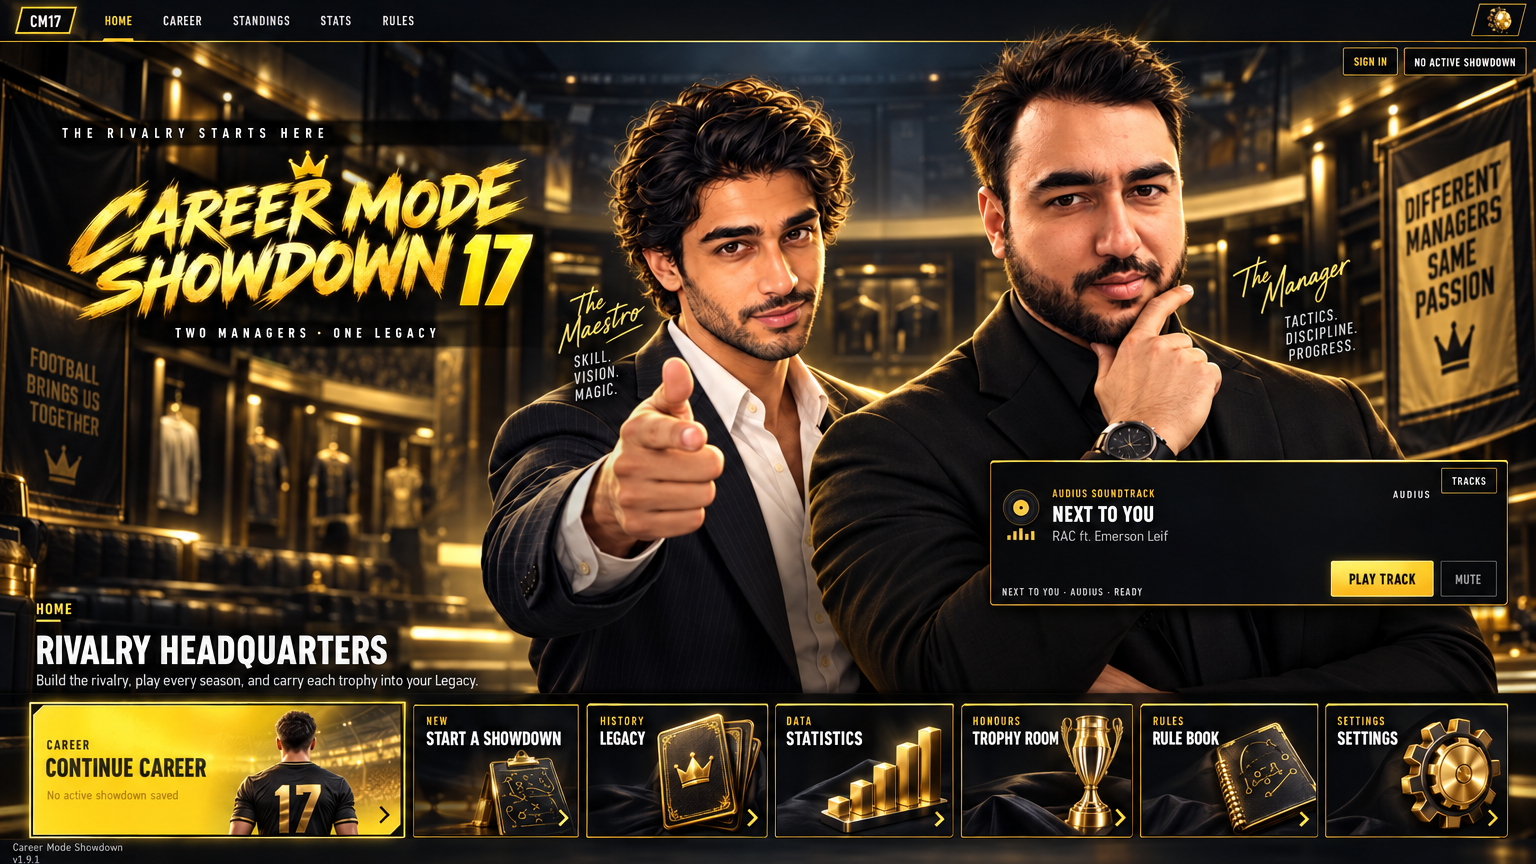
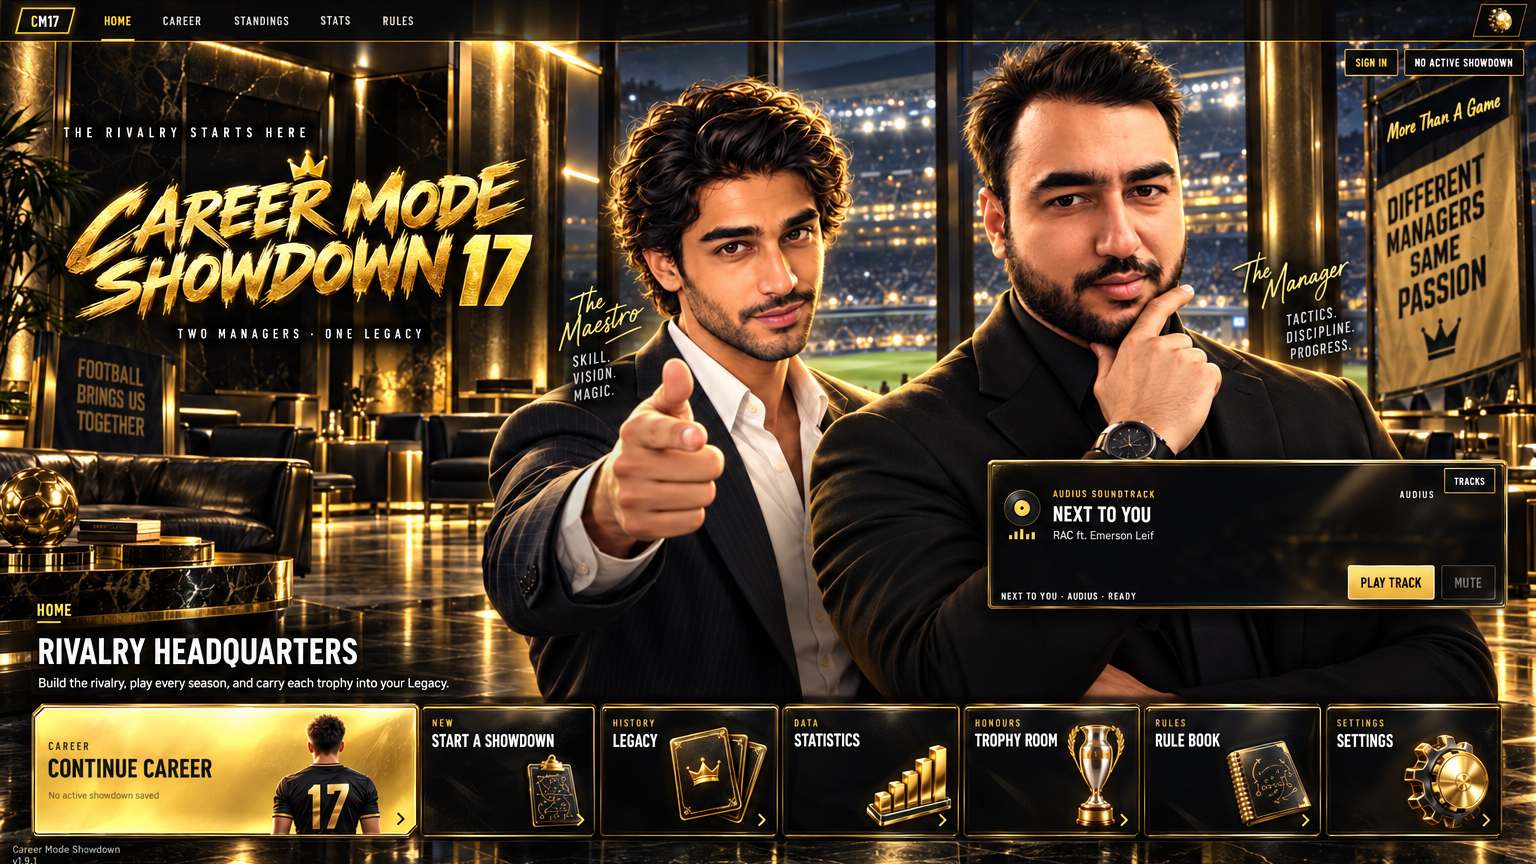
Mockups: re-approve NEXT_HOME with the premium redo
Claude-Session: https://claude.ai/code/session_013pn5j1NjipzmcDNVpF7Fd3

diff --git a/project-documents/factory/mockups/README.md b/project-documents/factory/mockups/README.md
@@ -29,7 +29,7 @@ Nik's mockups and goal images. They show the look to reach. Some contain real cl
 | PHONE_TROPHY_ROOM.png | Trophy Room (ALL tab) | Sat 10 Oct 11:14 p.m. Eastern | Ticket 1588 10 of 12, prompt v2. Faces and every word match live. New: all five live tabs in a framed two-row tab bar (ALL lit), all four live trophies in a 2 x 2 grid of identical glass display niches with marble plinths and one spotlight each, one condensed font. The live phone carousel cuts off the 5th tab and two cards; this shows them all. Each tab shows its one trophy large: see PHONE_TROPHY_ROOM_SINGLE (ticket 10B). sha256 bdebfcb147cc3cfb… |
 | PHONE_TROPHY_ROOM_SINGLE.png | Trophy Room (one tab picked) | Sat 10 Oct 11:22 p.m. Eastern | Ticket 1588 10B, first try. Same screen with CHAMPIONS LEAGUE lit: the 2 x 2 grid becomes one big display niche with the one trophy large on its plinth and a bigger name-and-counts band. Every other tab uses this layout with its own trophy and counts. Needs the high-res trophy art from ticket 10C (live art is only 341 x 512). sha256 0cd151a596a2b084… |
 | PHONE_FINAL_WINNER.png | Final Winner | Sat 10 Oct 11:23 p.m. Eastern | Ticket 1588 11 of 12, try 1 plus a buttons-only fix. Faces, trophy, scores and every word match live. New: richer stadium night, framed SUMMARY / HONOURS panel, and the two live buttons REVIEW MY SEASON RESULT (dark, gold edge) and BACK TO SHOWDOWN HOME (gold, main) fully on screen with a margin. In live they sit 6-7px from the bottom edge at 393x660. sha256 67de1d61ed589677… |
-| NEXT_HOME.png | Home (desktop, next level) | Sun 11 Oct 1:50 a.m. Eastern | Ticket 1610 1 of 14, try 1, cropped to the 16:9 screen (1536x864). Both managers, every title, tab, label and the soundtrack card match live r69. New: calmer lighting, a trophy-hall background with plain shirts (no crests), cleaner panels, and big tile art filling the right side of each tile. Dropped: the small "More Than A Game" script tag above the right banner (decoration only). sha256 c8a44225c70ab08f… |
+| NEXT_HOME.png | Home (desktop, premium) | Sun 11 Oct 6:55 p.m. Eastern | Premium redo (ticket 1610 1 of 14, rewritten prompt), replaces the earlier approved Home, cropped to 16:9 (1536x864). Same layout and words as live: top bar with CM17 and the five tabs, SIGN IN and NO ACTIVE SHOWDOWN at the top right (SIGN IN required, Nik 11 Oct), THE RIVALRY STARTS HERE, CAREER MODE SHOWDOWN 17 gold brush title, TWO MANAGERS · ONE LEGACY, Daniel LEFT and Nik RIGHT with their name tags, Audius soundtrack card, RIVALRY HEADQUARTERS line, CONTINUE CAREER gold tile and the six tiles with large art. New: black-marble stadium lounge with brushed-gold columns and glass windows on the floodlit pitch, gold-bevel tiles. sha256 d3a8f8ae5f78ace3… |
 | NEXT_RULE_BOOK.png | Rule Book (desktop, next level) | Sun 11 Oct 3:58 a.m. Eastern | Ticket 1610 13 of 14, first try with the stricter prompt, cropped to the screen (1536x880). Top bar, title, all six cards and every line of 01-05 plus the scoring table match live. Claude fix: GPT merged and garbled the four 06 CONNECTION & RECOVERY lines, so Claude repainted that card body with the four live lines in Barlow (no other pixels touched). Wiring notes: the subtitle shows a comma after "Permanent clubs" (live has a full stop), and the right banner reads SAME AMBITION; use the live banner art (SAME PASSION). New: calmer gold stadium, framed cards, bigger readable rule lines. sha256 bc23b9e610d44f75… |
 | NEXT_CONNECT_PLAYERS.png | Connect Players (desktop, premium) | Sun 11 Oct 6:54 p.m. Eastern | Premium redo (ticket 1610 2 of 14, rewritten prompt), replaces the 6:30 p.m. picture, cropped to 16:9 (1536x864). Same layout and words as live: top bar with CM17 and the five tabs, CONNECT PLAYERS gold-leaf title and line, Daniel LEFT and Nik RIGHT unchanged, all four banners, BACK in the right card. New: black-marble VIP tunnel with brushed-gold walls, framed gold-bevel cards, polished-gold CHOOSE SEASONS. Wiring note: card titles show a dash (DANIEL - START, NIK - JOIN); keep the live middle dot. sha256 e86d6f0a4ba5f52d… |
 | NEXT_SEASON_RESULTS.png | Season Results (desktop, next level) | Sun 11 Oct 6:33 p.m. Eastern | Ticket 1610 3 of 14, cropped to 16:9 (1536x864). Same layout and words as live: top bar with lock marks and the DANIEL / SEASON 1 / 1 chips, SEASON RESULTS brush title, TWO MANAGERS · ONE LEGACY, scoring card (+5, +3, +1, +1, +1, max 11), Daniel's entry card (Arsenal, our original badge), four award checkboxes, REVIEW MY SEASON RESULT and BACK TO SHOWDOWN HOME. Daniel LEFT, Nik RIGHT unchanged, all four banners. New: bigger entry fields and labels, stronger card frames, calmer pitch light. sha256 561a27dd53fb019e… |
